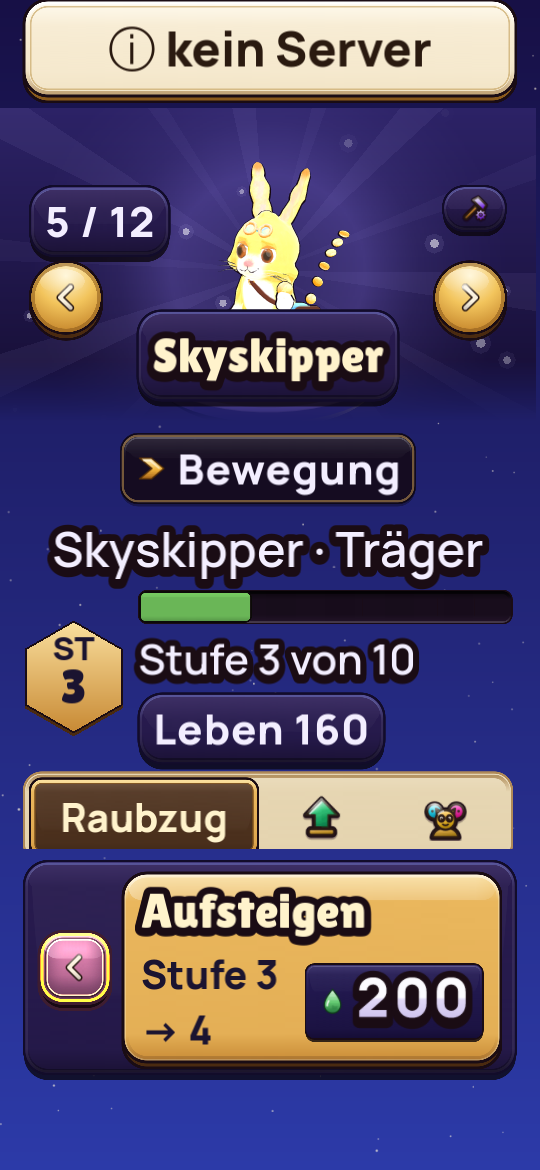
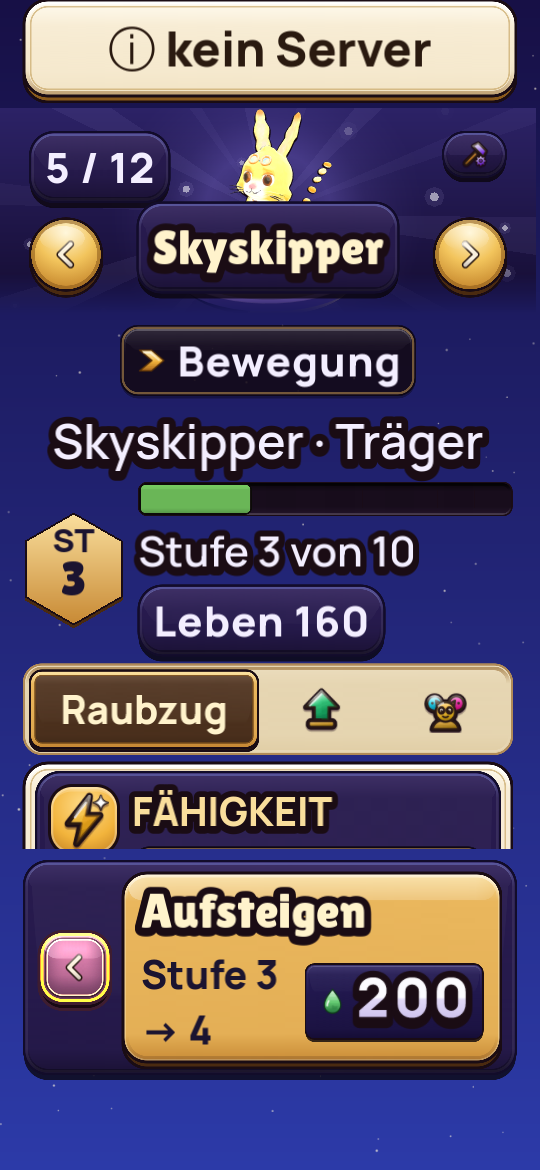
Re-shoot the offline character stills at 200% for AD-R66 and name the change
The stage gives the notice its height, so the plate, the arrows and the
tabs sit where they are online in pt_BR and de.

Claude-Session: https://claude.ai/code/session_01SNkKxqjkvtzBVBdApvpLwS

diff --git a/docs/art/tracks/menu-screens.md b/docs/art/tracks/menu-screens.md
@@ -381,6 +381,21 @@ Rendered on this task's code with `FIT=1` (and `RECORD=1` for the recorded still
 - **Changed by main, not by this task:** every character still that is not offline (`character-100`, `-100-de`, `-100-pt_BR`, `-100-stats`, `-100-compare`, `character-hc`, `-hc-pt_BR`, `character-200-{en,pt_BR,de}`, `-200-{en,pt_BR,de}-4`, `-200-pt_BR-scrolled`, `-200-pt_BR-stats`, `-200-pt_BR-compare`), plus `character-offline.png` and `roster-offline.png` at 100%. They render pixel for pixel the same on main 14dee6ce's code as on this branch. Their difference from the committed stills comes from main's work since P3-S3-nav-1 shot them: the kit's outline rule and back face (P3-K1-outline-1). Their records are unchanged. The notice at 100% was never shrunk and is the same sentence in en.
 - **Fit check:** `fit_character.sh` (lesson M26, every fixture state, including the offline notice at 100% in English and at 200% in pt_BR and de): 53 shots of 53 ok (exit 0). `check_screens.py`: OK. gdlint on `roster_screen.gd`: the same 18 long lines as before the task, none new.
 
+#### AD-R66: the stage gives the notice its height
+
+AD's preview of this task (M59) found that, offline at 200%, the notice at full size pushed the ability header ("HABILIDADE", "FÄHIGKEIT") under the fixed foot with Level up. `client/scripts/character_screen.gd` now makes room for it:
+
+- **The stage gives the notice its height.** In `_refresh`, when the load failed at large text and the notice shows, the stage's height drops by the notice's own height plus the column's gap (`_give`). Everything under the stage then sits where it does online: in pt_BR the tabs are at y 474.5 points in both records, and the ability header is above the foot in en, pt_BR and de. With no notice, or at 100%, `_give` is 0 and nothing changes.
+- **The pills give up the status bar's band.** Under the notice the stage is no longer under the status bar, so the count's and state's pills move from 44 points down to 8 points from the stage's top.
+- **The arrows centre under the count's pill**, in their own margin below it, not on top of it as they would on the shorter stage.
+- **The character is framed a little higher** (the stage's `headroom` is -0.08 there, 0.08 elsewhere), so its face and ears stay clear between the notice and the name's plate.
+- **The roster keeps its notice as is** (M59). OFFLINE=1 TEXT=200 in pt_BR and de stays in the stills.
+
+Evidence, rendered with `FIT=1 RECORD=1` on this code:
+
+- **Changed:** `character-offline-200-pt_BR.png` and `character-offline-200-de.png`, with their records. The stage is shorter, the arrows move up from y 188.86 to 157.81 points, and the name's plate moves up from y 232.92 to 154.92, where it is online. In de the tabs are at y 479.92 and the sub-line at 294.31, as online too. The tabs and the ability header come back into view above Level up, which stays where it was. An en render with the same env (not a committed still) shows the same layout with "ⓘ no server is set".
+- **Unchanged, pixel for pixel and record for record:** the other 20 character and roster stills, including every online still at 200% (`character-200-{en,pt_BR,de}` and their `-4`, `-scrolled`, `-stats` and `-compare`). So the gate item 'character at 200% text, pt_BR' (Hierarchy) shows the same still as before.
+
 ## Part 3: the settings screen (P2-S3-settings)
 
 ### What was done
